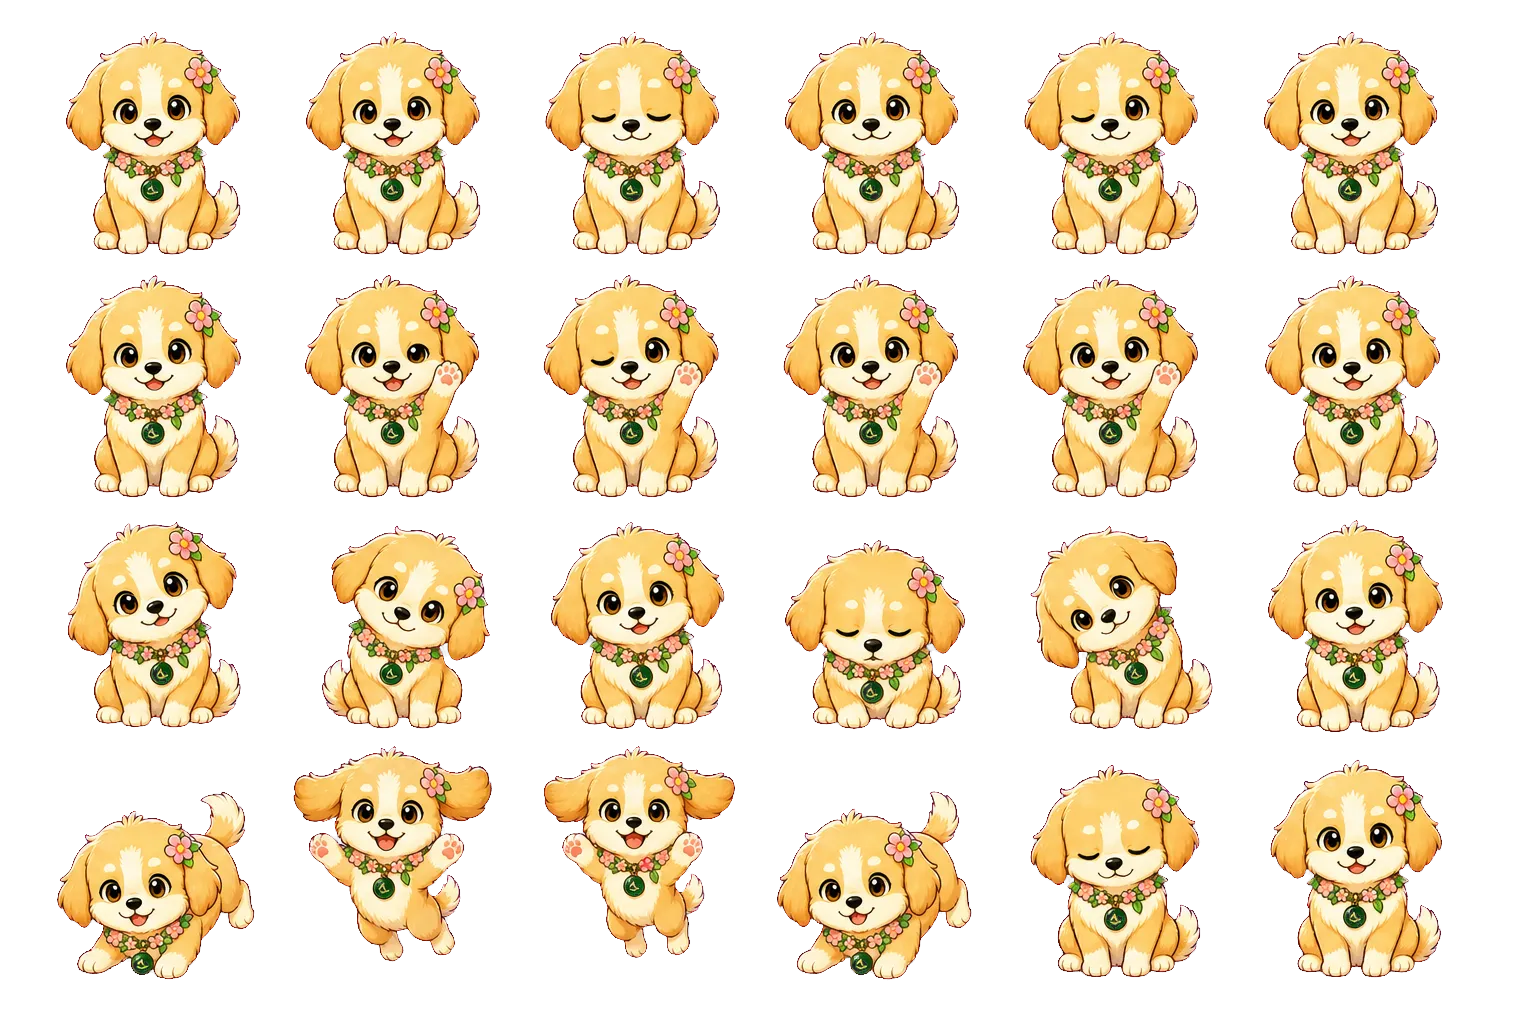
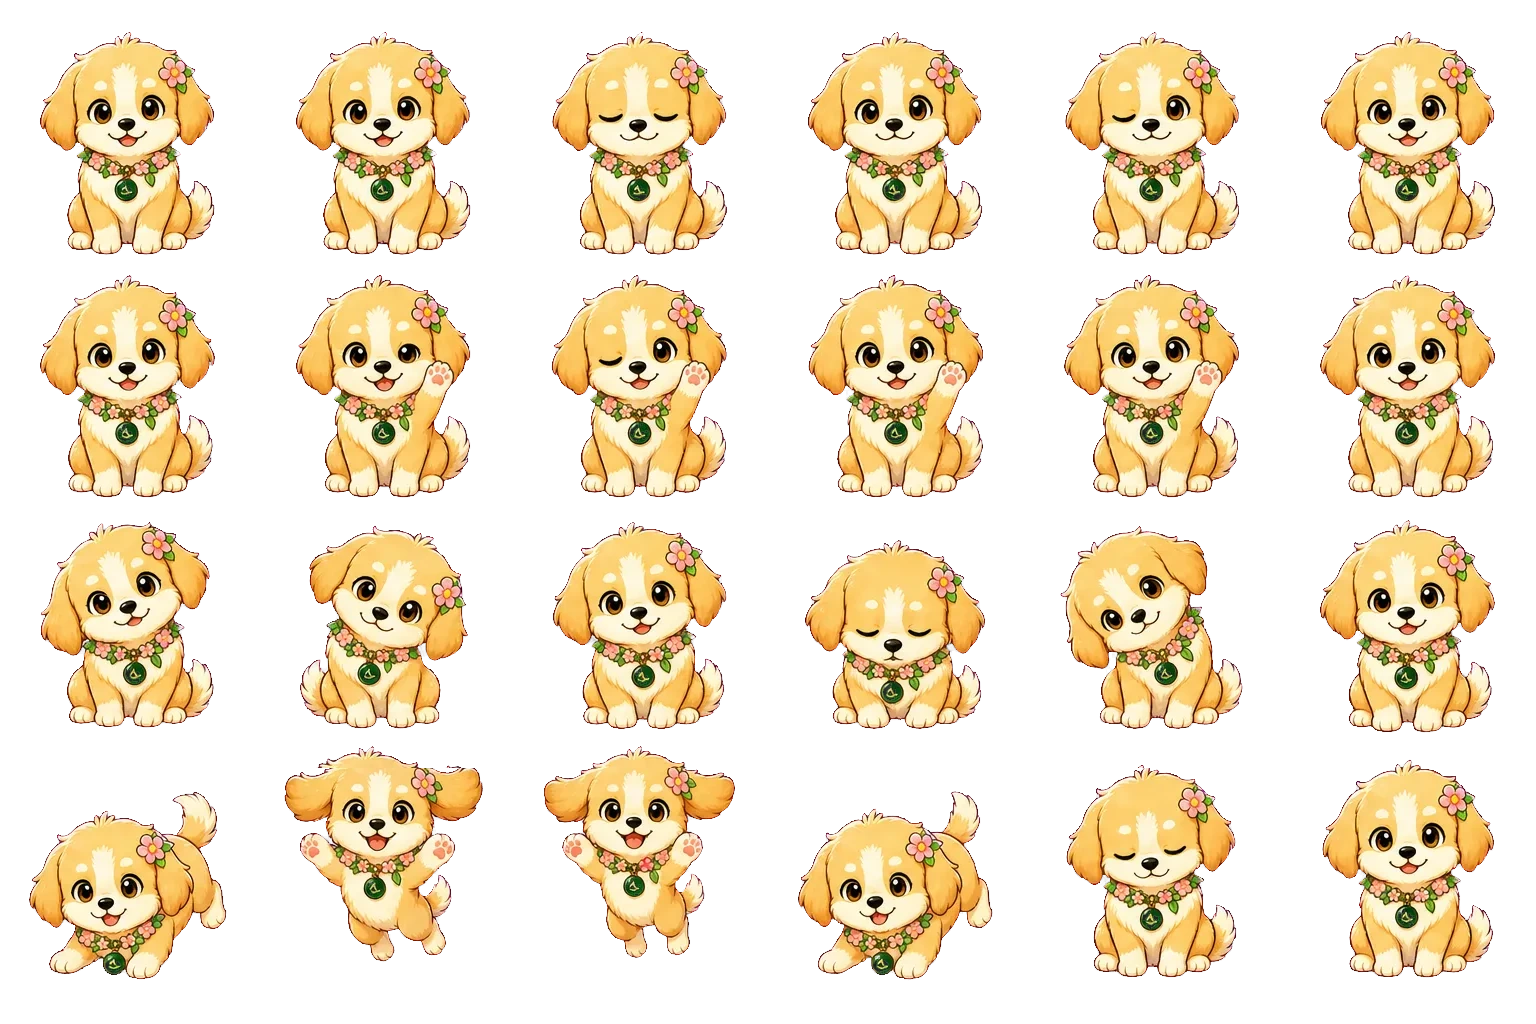
fix: stabilize timeline puppy sprite anchors

diff --git a/scripts/repair_timeline_puppy_atlas.py b/scripts/repair_timeline_puppy_atlas.py
@@ -1,0 +1,88 @@
+#!/usr/bin/env python3
+"""Reassemble the Timeline puppy atlas with one centered sprite per 256px cell."""
+
+from __future__ import annotations
+
+import argparse
+from pathlib import Path
+
+from PIL import Image
+
+
+CELL_SIZE = 256
+ATLAS_COLUMNS = 6
+ATLAS_ROWS = 4
+ALPHA_THRESHOLD = 16
+SPRITE_PADDING = 4
+MIN_SPRITE_WIDTH = 80
+
+
+def _occupied_columns(row: Image.Image) -> list[bool]:
+    alpha = row.getchannel("A")
+    pixels = alpha.load()
+    return [
+        any(pixels[x, y] > ALPHA_THRESHOLD for y in range(alpha.height))
+        for x in range(alpha.width)
+    ]
+
+
+def _sprite_runs(row: Image.Image) -> list[tuple[int, int]]:
+    occupied = _occupied_columns(row)
+    runs: list[tuple[int, int]] = []
+    start: int | None = None
+    for x, present in enumerate((*occupied, False)):
+        if present and start is None:
+            start = x
+        elif not present and start is not None:
+            if x - start >= MIN_SPRITE_WIDTH:
+                runs.append((start, x))
+            start = None
+    return runs
+
+
+def repair_atlas(source: Image.Image) -> Image.Image:
+    rgba = source.convert("RGBA")
+    expected_size = (CELL_SIZE * ATLAS_COLUMNS, CELL_SIZE * ATLAS_ROWS)
+    if rgba.size != expected_size:
+        raise ValueError(f"expected atlas size {expected_size}, got {rgba.size}")
+
+    repaired = Image.new("RGBA", expected_size, (0, 0, 0, 0))
+    for row_index in range(ATLAS_ROWS):
+        row_top = row_index * CELL_SIZE
+        row = rgba.crop((0, row_top, rgba.width, row_top + CELL_SIZE))
+        runs = _sprite_runs(row)
+        if len(runs) != ATLAS_COLUMNS:
+            raise ValueError(
+                f"row {row_index} contains {len(runs)} sprite runs; expected {ATLAS_COLUMNS}: {runs}"
+            )
+
+        for column_index, (left, right) in enumerate(runs):
+            crop_left = max(0, left - SPRITE_PADDING)
+            crop_right = min(row.width, right + SPRITE_PADDING)
+            sprite = row.crop((crop_left, 0, crop_right, CELL_SIZE))
+            if sprite.width > CELL_SIZE - SPRITE_PADDING * 2:
+                raise ValueError(
+                    f"row {row_index}, column {column_index} is too wide: {sprite.width}px"
+                )
+            target_left = column_index * CELL_SIZE + (CELL_SIZE - sprite.width) // 2
+            repaired.alpha_composite(sprite, (target_left, row_top))
+
+    return repaired
+
+
+def main() -> None:
+    parser = argparse.ArgumentParser(description=__doc__)
+    parser.add_argument("input", type=Path)
+    parser.add_argument("output", type=Path)
+    args = parser.parse_args()
+
+    with Image.open(args.input) as opened:
+        repaired = repair_atlas(opened)
+
+    args.output.parent.mkdir(parents=True, exist_ok=True)
+    repaired.save(args.output, format="WEBP", quality=92, method=6)
+    print(f"repaired Timeline puppy atlas: {args.output} ({args.output.stat().st_size} bytes)")
+
+
+if __name__ == "__main__":
+    main()

diff --git a/tests/test_timeline_puppy_atlas.py b/tests/test_timeline_puppy_atlas.py
@@ -1,0 +1,38 @@
+"""Regression checks for stable per-frame alignment in the Timeline puppy atlas."""
+
+from pathlib import Path
+
+from PIL import Image
+
+
+ATLAS_PATH = Path(__file__).parents[1] / "web" / "public" / "pets" / "xiaohua-home-atlas.webp"
+CELL_SIZE = 256
+ATLAS_COLUMNS = 6
+ATLAS_ROWS = 4
+
+
+def test_timeline_puppy_frames_keep_a_stable_horizontal_anchor() -> None:
+    with Image.open(ATLAS_PATH) as source:
+        atlas = source.convert("RGBA")
+
+    assert atlas.size == (CELL_SIZE * ATLAS_COLUMNS, CELL_SIZE * ATLAS_ROWS)
+
+    centers: list[float] = []
+    for row in range(ATLAS_ROWS):
+        for column in range(ATLAS_COLUMNS):
+            frame = atlas.crop(
+                (
+                    column * CELL_SIZE,
+                    row * CELL_SIZE,
+                    (column + 1) * CELL_SIZE,
+                    (row + 1) * CELL_SIZE,
+                )
+            )
+            bbox = frame.getchannel("A").getbbox()
+            assert bbox is not None, f"frame {row},{column} is empty"
+            assert bbox[0] > 2 and bbox[2] < CELL_SIZE - 2, (
+                f"frame {row},{column} touches a horizontal cell edge: {bbox}"
+            )
+            centers.append((bbox[0] + bbox[2]) / 2)
+
+    assert max(abs(center - CELL_SIZE / 2) for center in centers) <= 2, centers

diff --git a/docs/ai/DESIGN.md b/docs/ai/DESIGN.md
@@ -37,7 +37,7 @@ The interface uses Inter plus Noto Sans SC through `next/font`. `font-display`, 
 - `BottomNav` uses an app-style five-slot structure with a restrained iOS liquid-glass shell and a shared glass selection lens that slides between ordinary destinations. Its center Create action is a compact rose pill with a heavy white plus. Activating Create gathers the shared lens into the center action before a near-full-height create sheet rises from the bottom; reduced-motion mode opens the sheet without travel. Direct `/create` visits retain a standalone page using the same shared form. The final slot now opens `/habits`; settings stay available from the top avatar.
 - Login uses an interactive procedural sunset meadow behind an offset solid form surface. The puppy is the hero: clicking or tapping the grass places a glowing heart target, immediately redirects the puppy's interruptible run, and finishes with a pounce and a small petal burst; tapping the puppy adds a wave, jump, and tail response. The hero model uses a layered head and muzzle, articulated limbs and paws, double-shell ears, glassy catchlit eyes, chest markings, collar hardware, and a segmented tail rather than coarse primitive silhouettes; nearby grass uses tapered multi-segment curved blades with per-instance height, color, and wind phase. A grounded picnic scrapbook remains a quiet Love Book keepsake rather than the dominant stage. Mobile keeps the playable meadow in the upper viewport with a thumb-friendly lower form, while desktop gives the meadow the left side and keeps the form on the right. `PuppyScene` remains isolated to the login route and uses login mood states so focus settles the puppy and wind, submission sends a rose-gold light trail toward a brighter chase target, errors soften the light and ears, and success can celebrate without delaying navigation. The hero combines an OKLCH-driven gradient sky, distant hills, instanced grass/flowers/fireflies, ACES tone mapping, warm key/rim lighting, soft shadows, adaptive DPR and scene counts, one delta-based render clock, page-visibility pausing, touch-scroll discrimination, and WebGL/high-contrast/reduced-motion fallbacks.
 - Timeline home keeps the "我们的甜蜜小事" header visually clean; Todo and cycle shortcuts live in the authenticated bottom navigation rather than as title-side icon buttons.
-- Timeline home starts with one compact relationship quote stage that combines only the pair names, relationship day count, current quote, and the pair's 2D puppy. The puppy uses a dedicated transparent 6×4 WebP atlas with calm idle, greeting, curious, and celebration rows; repeated taps alternate a wave and small hop, while requesting another quote plays the curious row. Frame playback is bounded, pauses when the stage or browser tab is hidden, and falls back to one still frame under reduced motion. Timeline never imports the login Three.js scene, so relationship content remains immediately interactive while the small atlas loads. The current quote text itself is the refresh target, so the stage does not show a separate refresh icon button or a "今天的话" label, and it no longer shows anniversary or festival reminder pills in this top band. Anniversary or festival copy remains the first-load message; five ordinary quotes are prefetched into memory, each tap synchronously advances the queue, and a quiet background refill starts when two remain. Only the current quote is rendered and announced through a polite live region; queued quotes never become hidden DOM. It does not duplicate bottom navigation destinations such as create, cycle, or habits in the top section, and it does not expose quote-source implementation labels. Below the quote stage, a restrained segmented control switches between all memories and the offline-meeting view. Meetings are inclusive Beijing-time date ranges and every pair event inside a range is classified automatically; marking an unmatched event creates a same-title single-day range, so creation and detail never expose a “见面场次” form. Either partner clicks a meeting title to open a centered desktop dialog or mobile bottom sheet for title, start date, and end date. The interface previews overlap merges and the retained title before saving, exposes whole-meeting cancellation behind confirmation, and has no adjacent add action or manual record picker. Each meeting timeline node centers on the first title row's 44px touch target, while the title and its date/count metadata share a text baseline. Event creators edit title, description, occurred time, and visibility inline from a pencil action; the calendar-heart creates a meeting for ordinary events and opens the range editor for classified events. All-memory rows keep a soft meeting highlight and show the meeting name. Event lists reduce card nesting on mobile so scanning and tapping feel closer to a message timeline than a stack of heavy tiles. Visible page copy must speak from the user's point of view and must not describe implementation changes, layout optimizations, or release-note style updates.
+- Timeline home starts with one compact relationship quote stage that combines only the pair names, relationship day count, current quote, and the pair's 2D puppy. The puppy uses a dedicated transparent 6×4 WebP atlas with calm idle, greeting, curious, and celebration rows; repeated taps alternate a wave and small hop, while requesting another quote plays the curious row. Every source pose is extracted as an independent silhouette and reassembled into a strict 256px cell with one shared horizontal anchor; atlas regression checks reject edge overlap and per-frame drift. Frame playback is bounded, pauses when the stage or browser tab is hidden, and falls back to one still frame under reduced motion. Timeline never imports the login Three.js scene, so relationship content remains immediately interactive while the small atlas loads. The current quote text itself is the refresh target, so the stage does not show a separate refresh icon button or a "今天的话" label, and it no longer shows anniversary or festival reminder pills in this top band. Anniversary or festival copy remains the first-load message; five ordinary quotes are prefetched into memory, each tap synchronously advances the queue, and a quiet background refill starts when two remain. Only the current quote is rendered and announced through a polite live region; queued quotes never become hidden DOM. It does not duplicate bottom navigation destinations such as create, cycle, or habits in the top section, and it does not expose quote-source implementation labels. Below the quote stage, a restrained segmented control switches between all memories and the offline-meeting view. Meetings are inclusive Beijing-time date ranges and every pair event inside a range is classified automatically; marking an unmatched event creates a same-title single-day range, so creation and detail never expose a “见面场次” form. Either partner clicks a meeting title to open a centered desktop dialog or mobile bottom sheet for title, start date, and end date. The interface previews overlap merges and the retained title before saving, exposes whole-meeting cancellation behind confirmation, and has no adjacent add action or manual record picker. Each meeting timeline node centers on the first title row's 44px touch target, while the title and its date/count metadata share a text baseline. Event creators edit title, description, occurred time, and visibility inline from a pencil action; the calendar-heart creates a meeting for ordinary events and opens the range editor for classified events. All-memory rows keep a soft meeting highlight and show the meeting name. Event lists reduce card nesting on mobile so scanning and tapping feel closer to a message timeline than a stack of heavy tiles. Visible page copy must speak from the user's point of view and must not describe implementation changes, layout optimizations, or release-note style updates.
 - `/todo` uses a Microsoft To Do style task workspace adapted to Love Book: a left list rail on desktop, a warm central task list, and a right-side detail panel; mobile collapses the rail and opens task detail as a bottom sheet. The default list shows all unfinished todos, sorts dated items before undated items by due date, and keeps completed check-ins in a folded section below the active list. Dates are set inside detail only, completion requires both partners to comment, location-aware AMap candidates show compact distance/address/rating metadata, weather hints use a quiet peach panel only when a scheduled place has forecast data, comments show authors, and photos live in a folded grid. The structure can feel familiar and task-focused, but the color, spacing, and state language stay rose, peach, sage, readable, and soft.
 - `/habits` is a daily check-in dashboard with a higher-end liquid-glass treatment: the calendar supports Monday-start week view by default plus an optional month view, and each date cell shows both partners' completion with each partner owning half the cell and each active habit taking an equal segment. The lower panels are full-width vertical accordions on every viewport, with the current user's panel open by default and the counterpart panel read-only. Habit colors use one left-side color button in the creation row, opening a liquid palette with default rose, bright presets, and custom color; color choices also appear during explicit editing rather than on every row. Completed rows become sage green glass surfaces with a short check animation, and full pair completion may use a brief fused-color celebration that respects reduced motion.
 - `/me` is a compact settings surface: the main profile card shows avatar, nickname, email, and relationship days in view mode first; clicking nickname/email switches to inline editing. The location card sits as a functional settings panel with a map-pin signal, current-location action, manual address/city inputs, and clear action without modal friction. User quotes, default quotes, loading, and empty states share equal-width readable bordered row styling, with default quotes shown directly below user quotes.

diff --git a/CHANGELOG.md b/CHANGELOG.md
@@ -10,7 +10,7 @@ Love Book follows Semantic Versioning. Git tags are the source of truth for rele
 
 ### Fixed
 
-- Nothing yet.
+- Fixed the Timeline puppy atlas so every animation frame keeps the same horizontal anchor instead of sliding left before each loop reset.
 
 ### Changed
 
